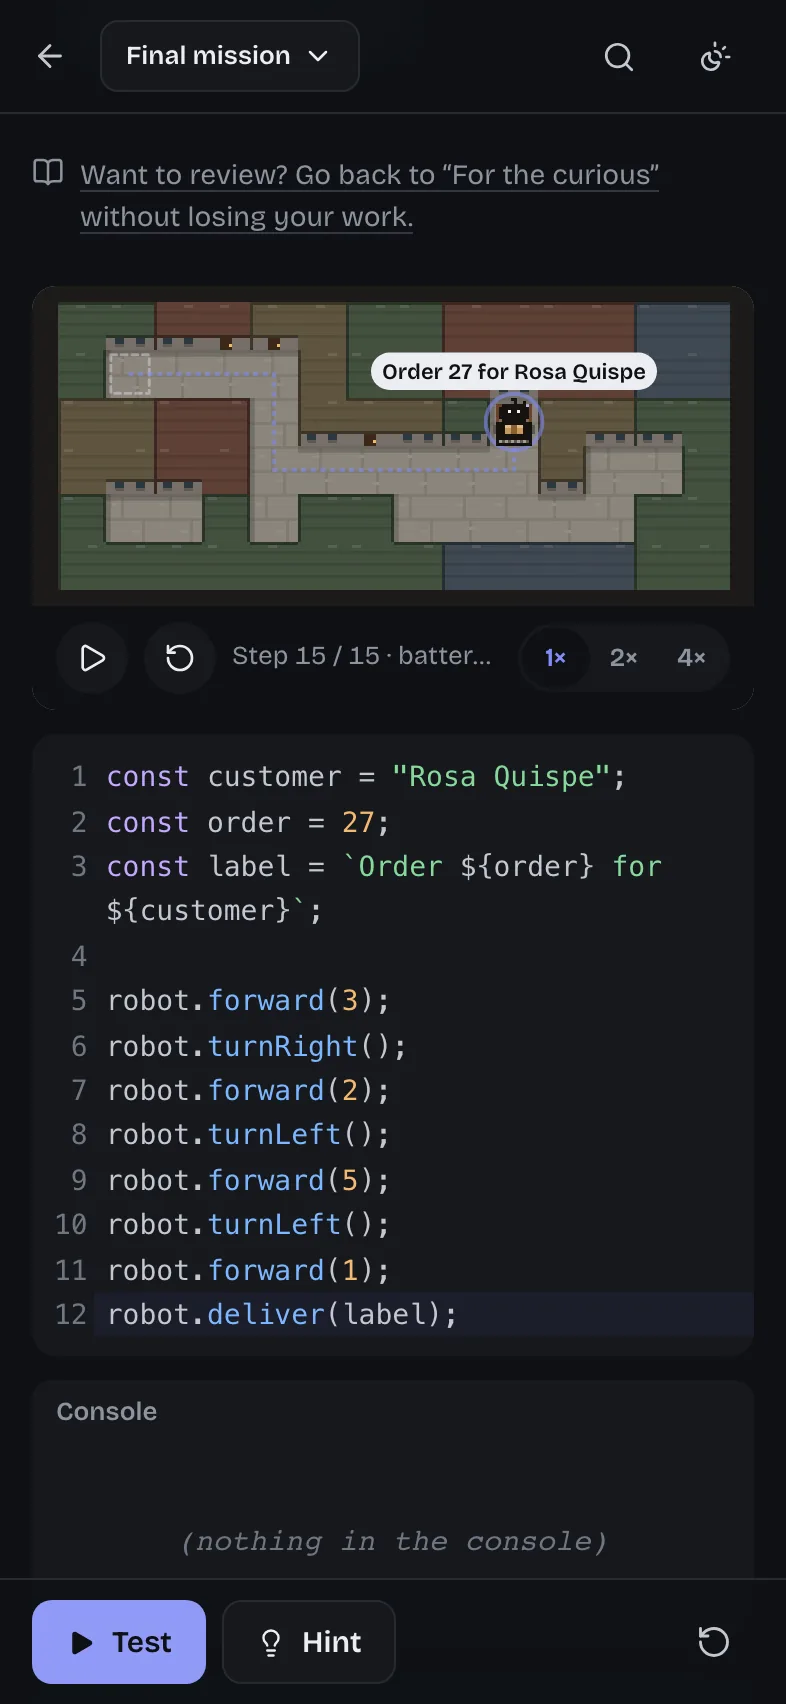
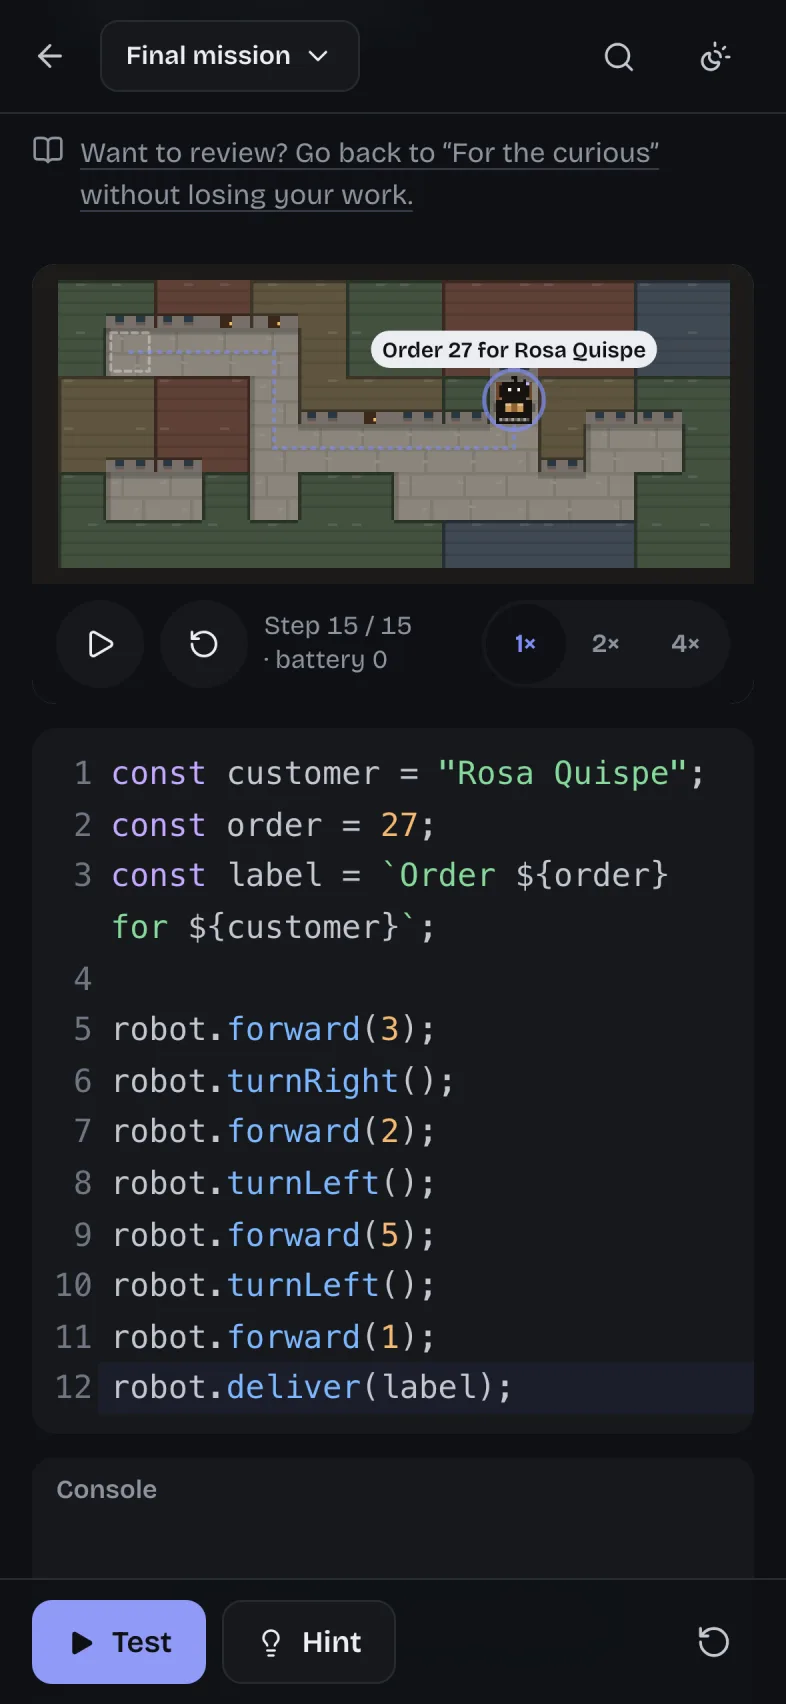
Retake the README screenshots of the JOIN animation, the SQL case and the phone

diff --git a/README.md b/README.md
@@ -25,7 +25,7 @@
 
 | | |
 |:--|:--|
-| <img src="docs/screenshots/loop-sql-join-animation.webp" alt="A JOIN drawn step by step, pairing rows of two tables"> | <img src="docs/screenshots/loop-sql-case.webp" alt="A SQL case: the story, the case scene and a query with its result"> |
+| <img src="docs/screenshots/loop-sql-join-animation.webp" alt="A JOIN drawn step by step, pairing rows of two tables"> | <img src="docs/screenshots/loop-sql-case.webp" alt="A SQL case: the witness card, a query over the reports table and its result"> |
 | **Concepts are drawn.** Here a `JOIN` pairs rows one by one; step through it or press play. | **SQL cases.** Query Lima's case files to follow a trail of reports, phones and payments. |
 | <img src="docs/screenshots/loop-judge-verdict.webp" alt="The judge rejecting a solution and showing input, expected output and the program's output"> | <img src="docs/screenshots/loop-home-es-dark.webp" alt="The home screen in Spanish, dark theme"> |
 | **The judge** grades in competitive-programming style and shows the first failing case. | **Spanish and English**, light and dark. The home lists the courses and what is next. |
